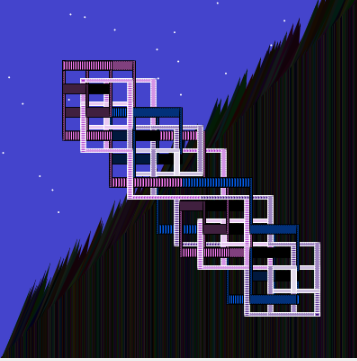
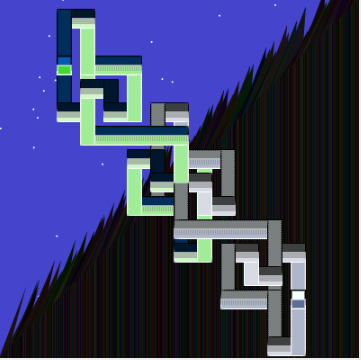
Cross hatch.

Changed region(s): [[0.0, 0.0, 1.0, 1.0], [0.8627, 0.0, 0.9552, 0.0611]]

diff --git a/js/art/latest.js b/js/art/latest.js
@@ -32,17 +32,26 @@ var beat = 25;
 
 function draw_weave(weave) {
   stroke(color(0,0,0)); // black outline
-  fill(weave.color);
-  // circle(weave.x,weave.y, weave.size);
-  rect(weave.x, weave.y, 
-    weave.size / 4, weave.size);
-  stroke(color(255,255,255)); // white outline
   fill(weave.color2);
-  rect(weave.x + 2* weave.size,
-    weave.y + 2*weave.size, 
-    weave.size / 2,
-    weave.size / 3
+
+  edge_dx = .5 * weave.size;
+
+  // large background square
+  rect(weave.x - edge_dx,
+    weave.y - edge_dx,
+    weave.size + edge_dx,
+    weave.size + edge_dx
     );
+
+  stroke(color(255,255,255)); // white outline
+  fill(weave.color);
+
+  // cross wide
+  rect(weave.x - edge_dx, weave.y, 
+    weave.size + edge_dx, weave.size / 4);
+  // cross tall
+  rect(weave.x, weave.y - edge_dx, 
+    weave.size / 4, weave.size + edge_dx);
   return weave;
 }
 
